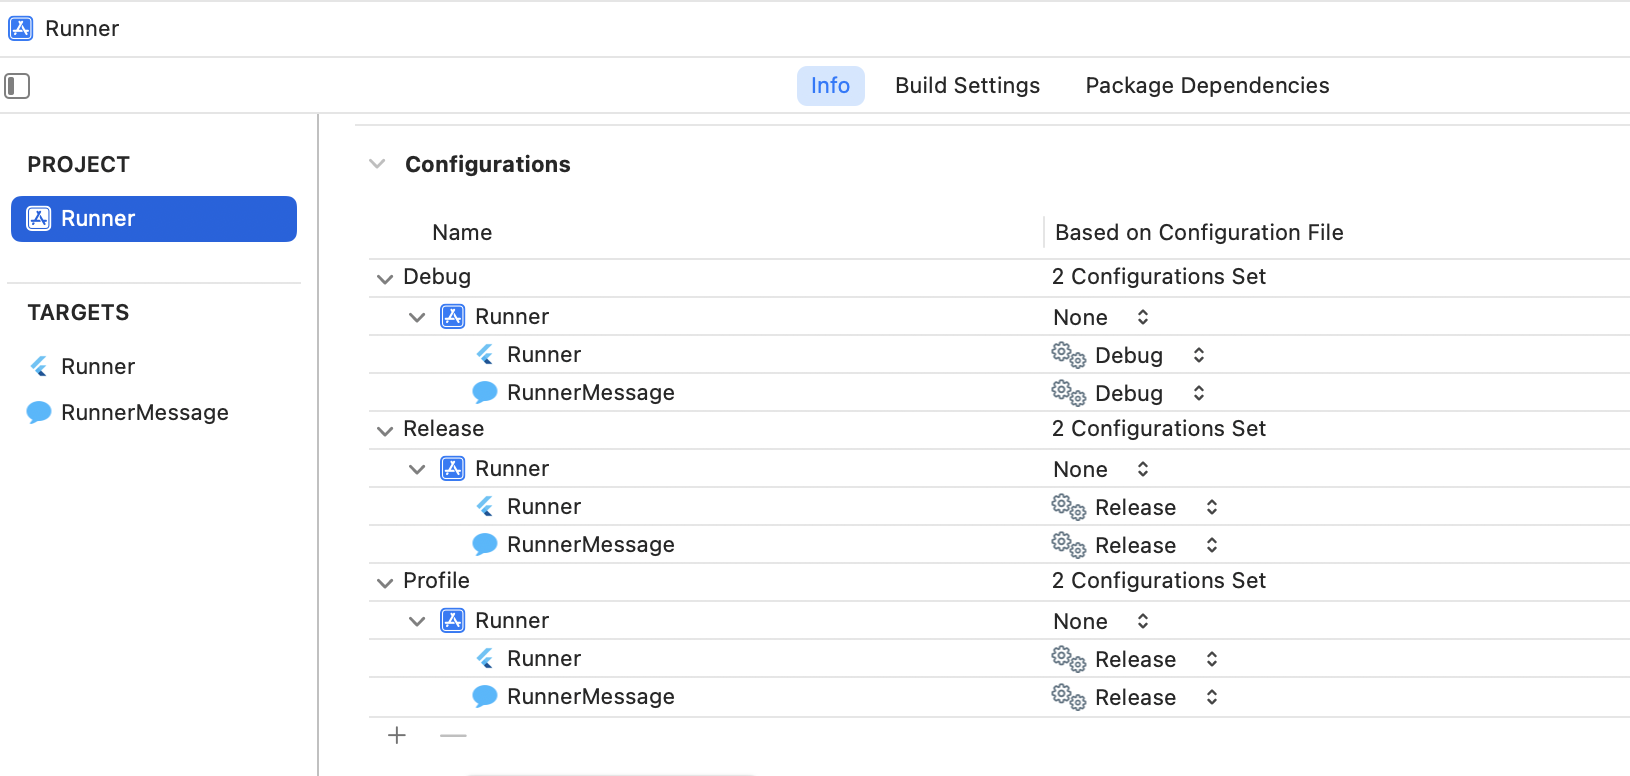
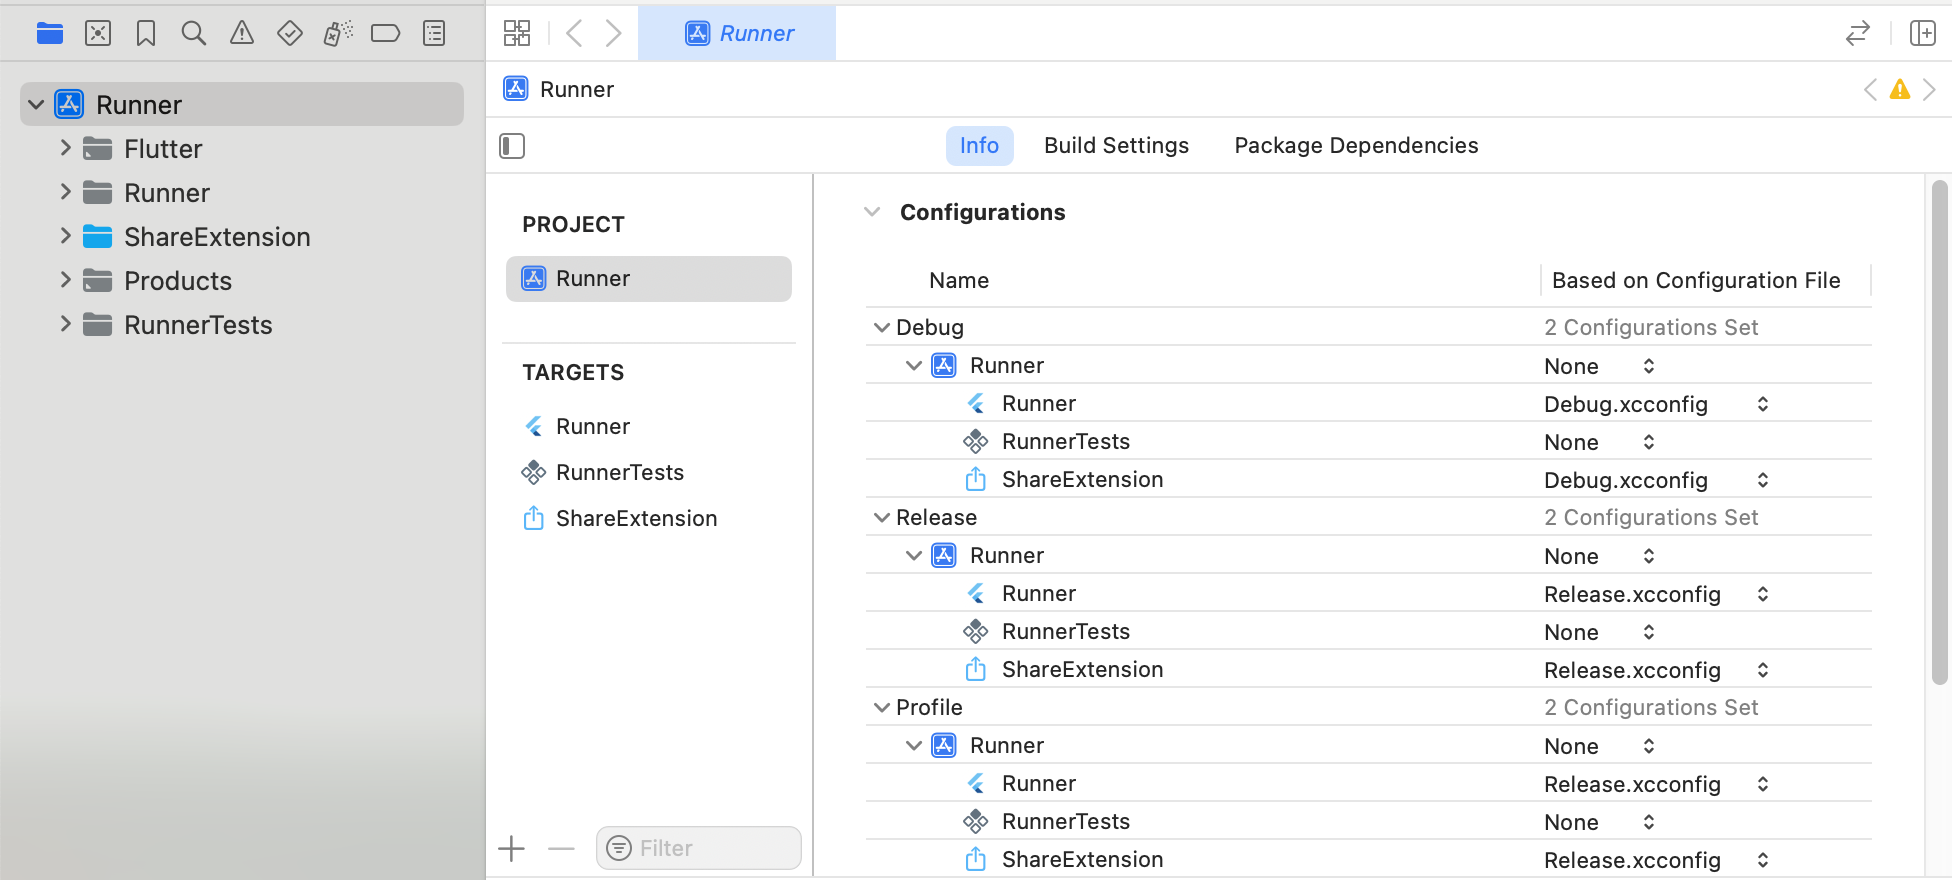
Small edits.

diff --git a/src/content/platform-integration/ios/app-extensions.md b/src/content/platform-integration/ios/app-extensions.md
@@ -113,14 +113,14 @@ application and Share extension from
 
 {% tab "Simulator" %}
 
-1.  Add an app extension to your project.
+1.  In Xcode, [add an app extension to your project][].
 
-1.  In Xcode, run your iOS app.
+1.  In the console, use the following command to run your
+    iOS app:
 
-    *   In Xcode, go to **Product** > **Scheme** and then
-        select **Runner**.
-
-    *   Run the scheme (**Product** > **Run**).
+    ```console
+    $ flutter run
+    ```
 
 1.  In the simulator, test your app extension.
 
@@ -130,26 +130,32 @@ application and Share extension from
     *   Select a photo, tap the share button, then tap
         on the share extension icon of your app.
 
-[Adding iOS app extensions]: #add-extension
-
 {% endtab %}
 
 {% tab "Physical device" %}
 
-1. Add an app extension to your project.
+1.  Add an app extension to your project.
 
-1. Launch the Share extension target.
+1.  In the console, run your Flutter app in release mode:
 
-1. In the popup window that says **Choose an app to run**,
-   select an app that can be used to test the 
-   Share extension, such as the Photos app.
+    ```console
+    $ flutter run --release
+    ```
 
-1. Select a photo, tap the share button,
-   then tap on the share extension icon of your app.
+1.  On your device, test your app extension.
+
+    *   Launch an app that supports the Share extension,
+        such as the Photos app.
+    
+    *   Select a photo, tap the share button, then tap on
+        the share extension icon of your app.
 
 {% endtab %}
 
 {% endtabs %}
+
+[Adding iOS app extensions]: #add-extension
+[add an app extension to your project]: #add-extension
 
 ## Additional ways to interact with iOS app extensions {: #interact-app-extensions }
 
@@ -251,14 +257,14 @@ the Share extension, follow [these instructions][].
 [Share]: https://developer.apple.com/library/archive/documentation/General/Conceptual/ExtensibilityPG/Share.html
 [these instructions]: {{site.github}}/flutter/flutter/issues/164670#issuecomment-2740702986
 
-### Open a Flutter app through an iOS app extension {: #creating-app-extension-uis-with-flutter }
+### Open a Flutter app in an iOS app extension {: #creating-app-extension-uis-with-flutter }
 
 You can open your Flutter app directly
-through some iOS app extensions, such as the
+in some iOS app extensions, such as the
 [Share][] extension, with a `FlutterViewController`.
 
 In the following example, a Flutter app called
-`Example App With Extension` is opened through the
+`Example App With Extension` is opened in the
 Share extension, which lets users share content
 between apps:
 
@@ -342,6 +348,12 @@ called `Runner`, and the Flutter app is called
 
     *   Repeat the previous step for **Profile**, and
         **Release**.
+    
+    *   When you are finished, make sure that the
+        configurations look similar to the following:
+
+        ![Xcode configurations](/assets/images/docs/development/platform-integration/app-extensions/xcode-configurations.png)
+
 
 1.  (Optional) In Xcode, replace any storyboard files with
     an extension class, if needed.
